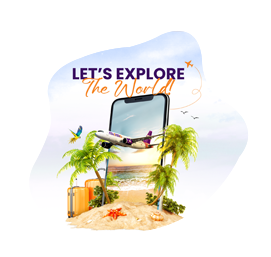
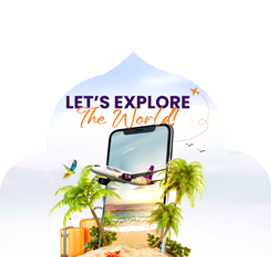
rich text footer remove

diff --git a/index.html b/index.html
@@ -240,7 +240,7 @@
                         background-repeat: no-repeat;
                         background-size: cover;
                         background-color: white;
-                        background-image: url('images/RamadanImg.png');
+                        background-image: url('images/RamadanImg.jpg');
                         background-position: bottom center;
                         color: #000000;
                         width: 680px;
@@ -592,7 +592,7 @@
                       style="
                         mso-table-lspace: 0pt;
                         mso-table-rspace: 0pt;
-                        background-color: #fff9ec;
+                        background-color: #3c106245;
                         border-radius: 0;
                         color: #000000;
                         width: 680px;
@@ -777,7 +777,7 @@
                       style="
                         mso-table-lspace: 0pt;
                         mso-table-rspace: 0pt;
-                        background-color: #fff9ec;
+                        background-color: #3c106245;
                         border-radius: 0;
                         color: #000000;
                         width: 680px;
@@ -877,7 +877,7 @@
                       style="
                         mso-table-lspace: 0pt;
                         mso-table-rspace: 0pt;
-                        background-color: #fff9ec;
+                        background-color: #3c106245;
                         border-radius: 0;
                         color: #000000;
                         width: 680px;
@@ -1128,7 +1128,7 @@
                       style="
                         mso-table-lspace: 0pt;
                         mso-table-rspace: 0pt;
-                        background-color: #fff9ec;
+                        background-color: #3c106245;
                         border-radius: 0;
                         color: #000000;
                         width: 680px;
@@ -1228,7 +1228,7 @@
                       style="
                         mso-table-lspace: 0pt;
                         mso-table-rspace: 0pt;
-                        background-color: #fff9ec;
+                        background-color: #3c106245;
                         border-radius: 0;
                         color: #000000;
                         width: 680px;
@@ -1470,7 +1470,7 @@
                       style="
                         mso-table-lspace: 0pt;
                         mso-table-rspace: 0pt;
-                        background-color: #fff9ec;
+                        background-color: #3c106245;
                         border-radius: 0;
                         color: #000000;
                         width: 680px;
@@ -1751,7 +1751,7 @@
                       style="
                         mso-table-lspace: 0pt;
                         mso-table-rspace: 0pt;
-                        background-color: #fff9ec;
+                        background-color: #3c106245;
                         border-radius: 0;
                         color: #000000;
                         width: 680px;
@@ -2036,7 +2036,7 @@
                       style="
                         mso-table-lspace: 0pt;
                         mso-table-rspace: 0pt;
-                        background-color: #fff9ec;
+                        background-color: #3c106245;
                         border-radius: 0;
                         color: #000000;
                         width: 680px;
